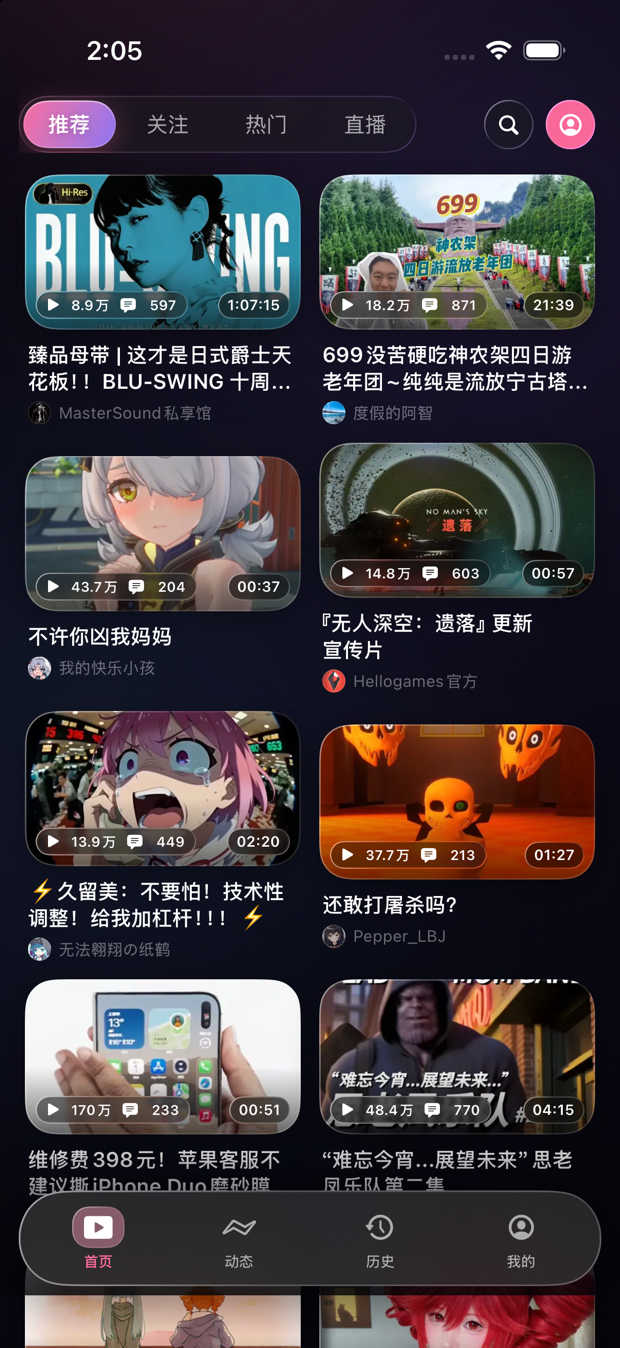
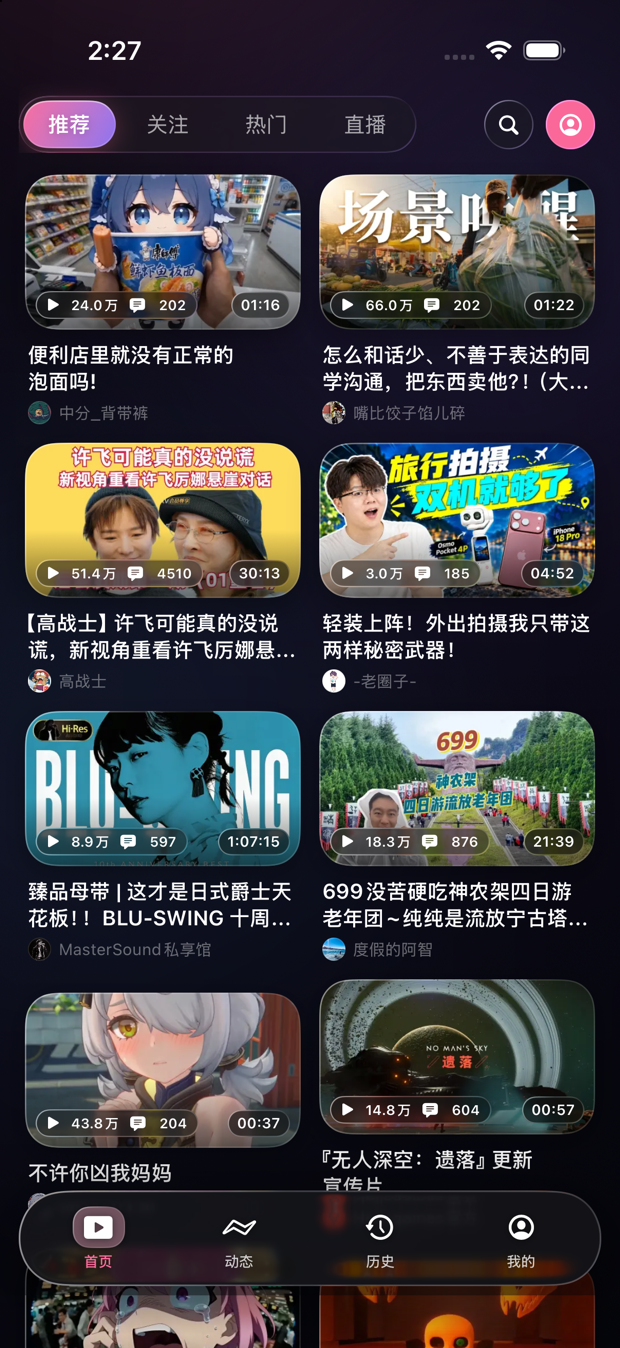
Make the floating tab bar actually transparent, add liquid press feedback
The bar had turned into a solid block: .ultraThinMaterial alone carries
about 60% white, and stacking it under glassEffect killed all transmission.
Two dead ends documented in code and README:
  - ultraThinMaterial under the glass  -> opaque white board
  - Glass.clear                        -> renders smoked-dark in light mode

Final: plain .regular glass, no extra material, no tint. Legibility comes
from a 2.5pt text shadow instead of thicker material.

- Bottom scrim: 0.42 max over 104pt (was 0.82/118) so coloured content
  actually reaches the glass; that was the real reason nothing showed
  through.
- Press: LiquidTabStyle scales the item to 0.90 and blooms a pink glow
  from the icon, plus .selection haptics.
- Tile tint 0.24, labels use full ink with a shadow.
- Regenerate docs screenshots.

diff --git a/BiliGlass/App/FloatingTabBar.swift b/BiliGlass/App/FloatingTabBar.swift
@@ -10,6 +10,13 @@ import SwiftUI
 /// 选中项的图标落在一块独立的小玻璃砖上——`GlassEffectContainer` +
 /// `glassEffectID` 让这块砖在切换时**在两点之间流动**，途中会和
 /// 底下的玻璃条短暂融合，这就是液态玻璃最直观的那一下。
+///
+/// 透明度的取舍：`glassEffect` 只做透光和边缘折射，**不做背景模糊**，
+/// 背后是高对比封面时缩略图上的字会清晰透上来和标签打架。之前的做法是
+/// 垫一层不透明的 `.ultraThinMaterial` 把内容糊掉——结果栏变成一块白板，
+/// 完全失去玻璃质感。现在改成：只留很薄的一层模糊（`ultraThinMaterial`
+/// 单独用就已经是最薄的一档，再叠 `tint` 就实了），tint 压到极低，
+/// 靠**底部渐隐只做轻压**（见 RootView）让内容带色彩地透上来。
 struct FloatingTabBar: View {
     @Binding var selection: Int
 
@@ -29,14 +36,10 @@ struct FloatingTabBar: View {
     @Namespace private var tabNamespace
     @Environment(\.colorScheme) private var scheme
 
-    /// 栏体玻璃的 tint。
-    ///
-    /// iOS 26 的 Liquid Glass 是「透光 + 边缘折射」，**不负责把背后的内容糊掉**：
-    /// 背后是高对比封面时，缩略图上的字会清晰地透上来和标签打架。
-    /// 所以下面额外垫了一层 `.ultraThinMaterial` 负责真正的背景模糊，
-    /// 玻璃负责透光和边缘——两者叠起来才是系统 Dock 那种磨砂玻璃。
+    /// 栏体玻璃不再额外 tint（`.regular` 自带的乳白已经够把标签托起来），
+    /// 保留这个开关只为以后微调
     private var barTint: Color {
-        scheme == .dark ? .black.opacity(0.22) : .white.opacity(0.28)
+        scheme == .dark ? .black.opacity(0.10) : .white.opacity(0.10)
     }
 
     private var barShape: RoundedRectangle {
@@ -57,14 +60,22 @@ struct FloatingTabBar: View {
             .padding(.horizontal, 6)
             .padding(.vertical, 5)
             .frame(height: 62)
-            .background {
-                barShape.fill(.ultraThinMaterial)
-            }
-            .glassEffect(.regular.tint(barTint), in: barShape)
+            // 就是系统原样的 `.regular` 玻璃，不叠材质、不加 tint。
+            //
+            // 走过两条弯路，记下来免得再踩：
+            // 1. 底下垫 `.ultraThinMaterial` —— 它自带六成白底，叠完栏就是一块白板，
+            //    内容一点透不过来；
+            // 2. `.clear` 变体 —— 它是给"压在视频/深色媒体上"设计的，浅色界面里
+            //    会渲染成烟熏黑，和浅色主题直接打架。
+            // `.regular` 本身就是「透光 + 边缘折射 + 一层很薄的乳白」，最贴近要的效果；
+            // 标签可读性靠下面那圈描边阴影解决，比加厚材质划算。
+            .glassEffect(.regular, in: barShape)
         }
         .liquidEdge(barShape, lineWidth: 1.1, elevated: true)
         .padding(.horizontal, 12)
         .padding(.bottom, 6)
+        // 切换 Tab 时给一次轻微触感，配合下面的液态点按
+        .sensoryFeedback(.selection, trigger: selection)
     }
 
     private func button(index: Int) -> some View {
@@ -80,7 +91,7 @@ struct FloatingTabBar: View {
                 Image(systemName: active ? item.activeIcon : item.icon)
                     .font(.system(size: 16, weight: .semibold))
                     // 选中项的图标压在粉玻璃砖上，必须用白色，否则同色系糊成一团
-                    .foregroundStyle(active ? .white : Theme.inkDim)
+                    .foregroundStyle(active ? .white : Theme.ink)
                     .frame(width: 34, height: 27)
                     .background {
                         if active {
@@ -90,28 +101,54 @@ struct FloatingTabBar: View {
 
                 Text(item.title)
                     .font(.system(size: 9.5, weight: active ? .semibold : .medium))
-                    // InkDim 自带 0.62 透明度，别再叠一层，否则浅色主题下
-                    // 未选中项淡到几乎看不见
-                    .foregroundStyle(active ? Theme.pink : Theme.inkDim)
+                    .foregroundStyle(active ? Theme.pink : Theme.ink.opacity(0.78))
             }
+            // 透明玻璃背后是封面/字幕这类高对比内容，一圈极淡的描边阴影
+            // 就能把字从背景里"抠"出来，比加厚材质划算得多
+            .shadow(color: .black.opacity(scheme == .dark ? 0.45 : 0.22), radius: 2.5, y: 0.5)
             .frame(maxWidth: .infinity)
             .contentShape(.rect)
         }
-        .buttonStyle(.plain)
+        .buttonStyle(LiquidTabStyle())
     }
 
     /// 选中项底下的小玻璃砖。
     ///
-    /// 只留玻璃、不再垫一层粉色实底：垫了实底之后玻璃被完全挡住，
-    /// 砖就退化成一个粉色圆角方块，玩具感很重。纯玻璃 + 0.35 的粉 tint
-    /// 才是"一块被染上品牌色的玻璃"——能透出背后的瀑布流，边缘还带受光。
+    /// 纯玻璃 + 0.24 的粉 tint：垫实底会把玻璃完全挡住，退化成粉色圆角方块；
+    /// tint 再高也一样——砖必须是「染上品牌色的玻璃」，能透出背后的瀑布流。
     private var tile: some View {
         tileShape
             .glassEffect(
-                .regular.tint(Theme.pink.opacity(0.35)).interactive(),
+                .regular.tint(Theme.pink.opacity(0.24)).interactive(),
                 in: tileShape
             )
             .liquidEdge(tileShape, lineWidth: 0.8)
             .glassEffectID("tab-active", in: tabNamespace)
+    }
+}
+
+/// 液态点按。
+///
+/// 按下时整项轻微内缩，同时从图标位置扩开一团柔光——缩是"按下去"，
+/// 光是"玻璃被挤压后透出来的亮"，两件事叠在一起才有液态感。
+/// 用 `ButtonStyle` 而不是 `onLongPressGesture`：后者的 pressing 状态
+/// 拿不到真实的按下/抬起时机，动画会断。
+private struct LiquidTabStyle: ButtonStyle {
+    func makeBody(configuration: Configuration) -> some View {
+        configuration.label
+            // 0.90 而不是更低：整项连文字一起缩，缩太多会显得"塌"
+            .scaleEffect(configuration.isPressed ? 0.90 : 1)
+            .background {
+                // 对齐图标中心：整项高约 42，图标中心在 y≈13.5，故上移 7.5
+                Circle()
+                    .fill(Theme.pink.opacity(0.50))
+                    .frame(width: 40, height: 40)
+                    .blur(radius: 13)
+                    .scaleEffect(configuration.isPressed ? 1.28 : 0.5)
+                    .opacity(configuration.isPressed ? 0.75 : 0)
+                    .offset(y: -7.5)
+                    .allowsHitTesting(false)
+            }
+            .animation(.spring(response: 0.30, dampingFraction: 0.58), value: configuration.isPressed)
     }
 }

diff --git a/BiliGlass/App/RootView.swift b/BiliGlass/App/RootView.swift
@@ -32,25 +32,25 @@ struct RootView: View {
             tab(index: 2, path: $historyPath) { HistoryView() }
             tab(index: 3, path: $profilePath) { ProfileView() }
 
-            // 底部渐隐：内容滚到悬浮栏下方时淡进底色。
+            // 底部渐隐：让内容「滚出视野」，不是把内容盖住。
             //
-            // 刻意**不压满**——末端只到 0.82。压成不透明的话玻璃背后就是一片纯色，
-            // 折射无从发生，底栏会退化成一块白板；留一点内容透出来，卡片从
-            // 玻璃下划过时才能看见材质在变亮变暗。
+            // 这里刻意压得很轻（末端 0.42）。之前压到 0.82 的时候，
+            // 内容在到达玻璃之前就已经被洗成一片纯底色，玻璃背后什么都没有，
+            // 透光、折射全都无从发生，栏看起来就是一块实心白板。
+            // 留够色彩和明暗，玻璃才有东西可透。
             if !tabBarCovered {
                 LinearGradient(
                     stops: [
                         .init(color: Theme.canvasBottom.opacity(0), location: 0),
-                        .init(color: Theme.canvasBottom.opacity(0.42), location: 0.45),
-                        .init(color: Theme.canvasBottom.opacity(0.82), location: 1)
+                        .init(color: Theme.canvasBottom.opacity(0.20), location: 0.5),
+                        .init(color: Theme.canvasBottom.opacity(0.42), location: 1)
                     ],
                     startPoint: .top,
                     endPoint: .bottom
                 )
-                .frame(height: 118)
-                // 必须一路铺到物理屏幕底边：只铺安全区的话，home indicator
-                // 那一条（约 34pt）会漏出来，卡片清清楚楚地露在栏下面，
-                // 视觉上像是栏没落到底
+                .frame(height: 104)
+                // 一路铺到物理屏幕底边：只铺安全区的话，home indicator
+                // 那一条（约 34pt）会漏出来，内容原样从栏下面露出
                 .ignoresSafeArea(edges: .bottom)
                 .allowsHitTesting(false)
                 .zIndex(9)

diff --git a/README.md b/README.md
@@ -180,9 +180,16 @@ xcrun swift scripts/generate-icon.swift BiliGlass/Resources/Assets.xcassets/AppI
 
 整页背景是「近黑画布 + 两团品牌色极光」（`CanvasBackdrop`）。纯色/纯渐变底会让玻璃无从折射——玻璃的质感来自它背后**有东西**；叠上大范围低透明度的粉、紫、蓝色斑之后，悬浮栏和卡片掠过去时能真的看到材质在变亮变暗。浅色主题下同样的色斑会读成一层柔和的粉紫雾，所以透明度按 `colorScheme` 分别取 0.55 / 0.22，否则顶部搜索框和 Tab 会糊在一起。
 
-卡片造型向 Apple TV 靠：**封面就是卡片本体**，圆角 20、一道极细受光边、往下 9pt 的柔投影，底部压一层黑色渐变让角标可读；标题和 UP 主信息直接落在画布上，不再给整张卡片套玻璃底。悬浮底栏同理——近乎满宽的玻璃条，图标在上文字在下，选中项的图标落在一块独立小玻璃砖上，`glassEffectID` 让它在两点之间流动，途中会和底下的玻璃条短暂融合。
+卡片造型向 Apple TV 靠：**封面就是卡片本体**，圆角 20、一道极细受光边、往下 9pt 的柔投影，底部压一层黑色渐变让角标可读；标题和 UP 主信息直接落在画布上，不再给整张卡片套玻璃底。悬浮底栏同理——近乎满宽的玻璃条，图标在上文字在下，选中项的图标落在一块独立小玻璃砖上，`glassEffectID` 让它在两点之间流动，途中会和底下的玻璃条短暂融合。点按时整项内缩到 0.90 并从图标位置扩开一团粉色柔光（`LiquidTabStyle`），配合 `.selection` 触感。
 
-底栏下方还有一道 128pt 的渐隐（`canvasBottom` 0 → 0.97），内容滚到栏下时自然淡进底色，而不是被一条实色边切断。
+底栏下方还有一道 104pt 的渐隐，末端只到 0.42——**不能压满**。压到 0.9 以上时内容在到达玻璃之前就被洗成纯底色，玻璃背后什么都没有，透光折射无从发生，栏看上去就是一块实心白板。
+
+底栏的透明度过一版专门调过，两条弯路记在这里：
+
+- 在玻璃下面垫 `.ultraThinMaterial`：它自带约六成白底，叠完就是一块白板，内容完全透不过来。
+- 换成 `.clear` 玻璃变体：它是给「压在视频/深色媒体之上」设计的，浅色界面里会渲染成烟熏黑。
+
+最终用系统原样的 `.regular`（不叠材质、不加 tint）：透光 + 边缘折射 + 一层很薄的乳白，最贴近要的效果。标签可读性交给一圈极淡的描边阴影，比加厚材质划算得多。
 
 ### 登录
 
